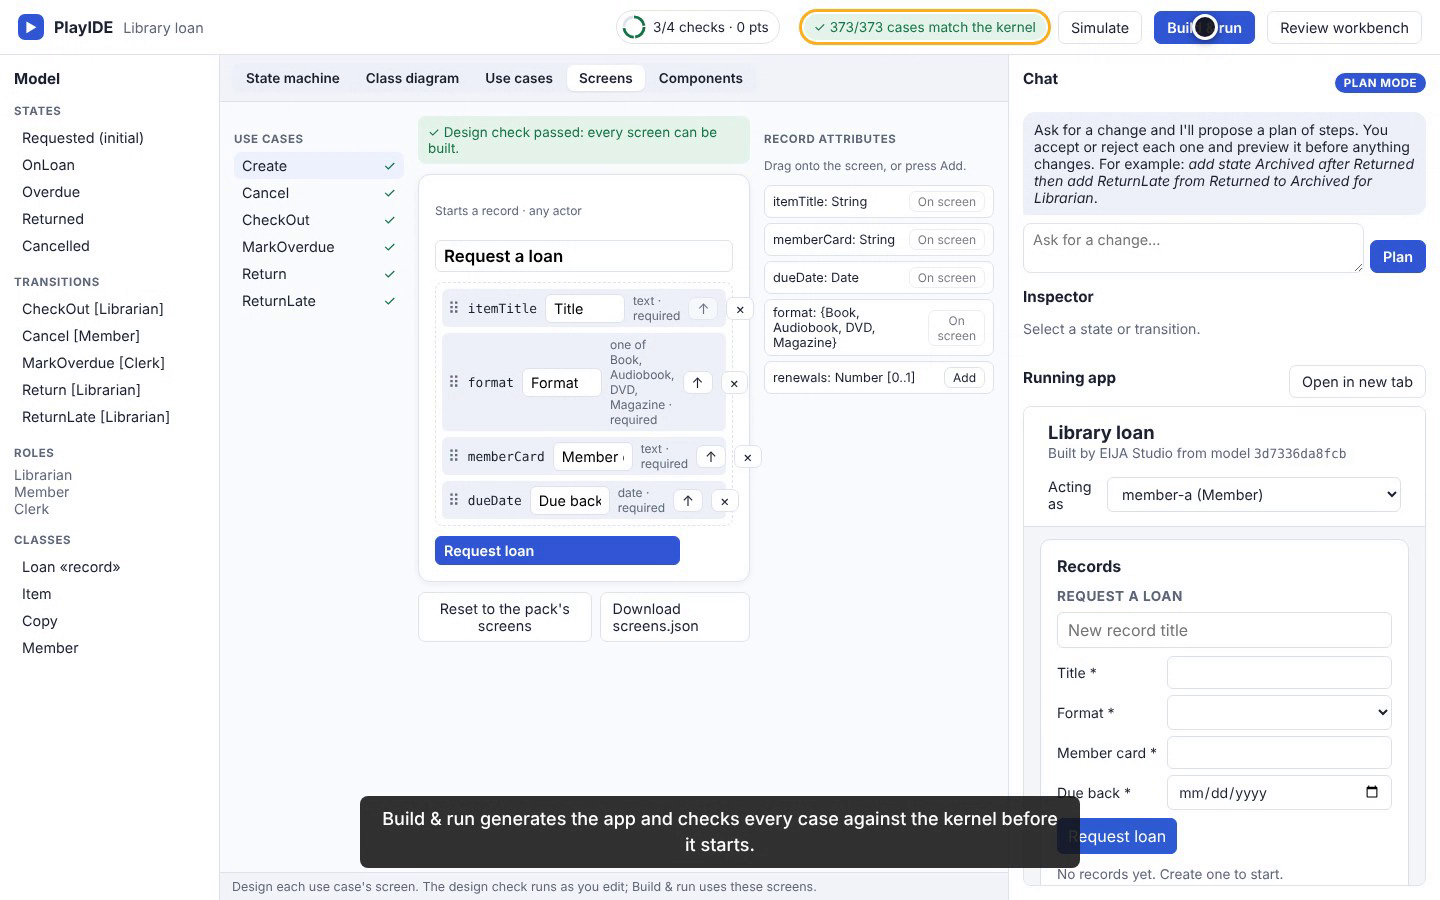
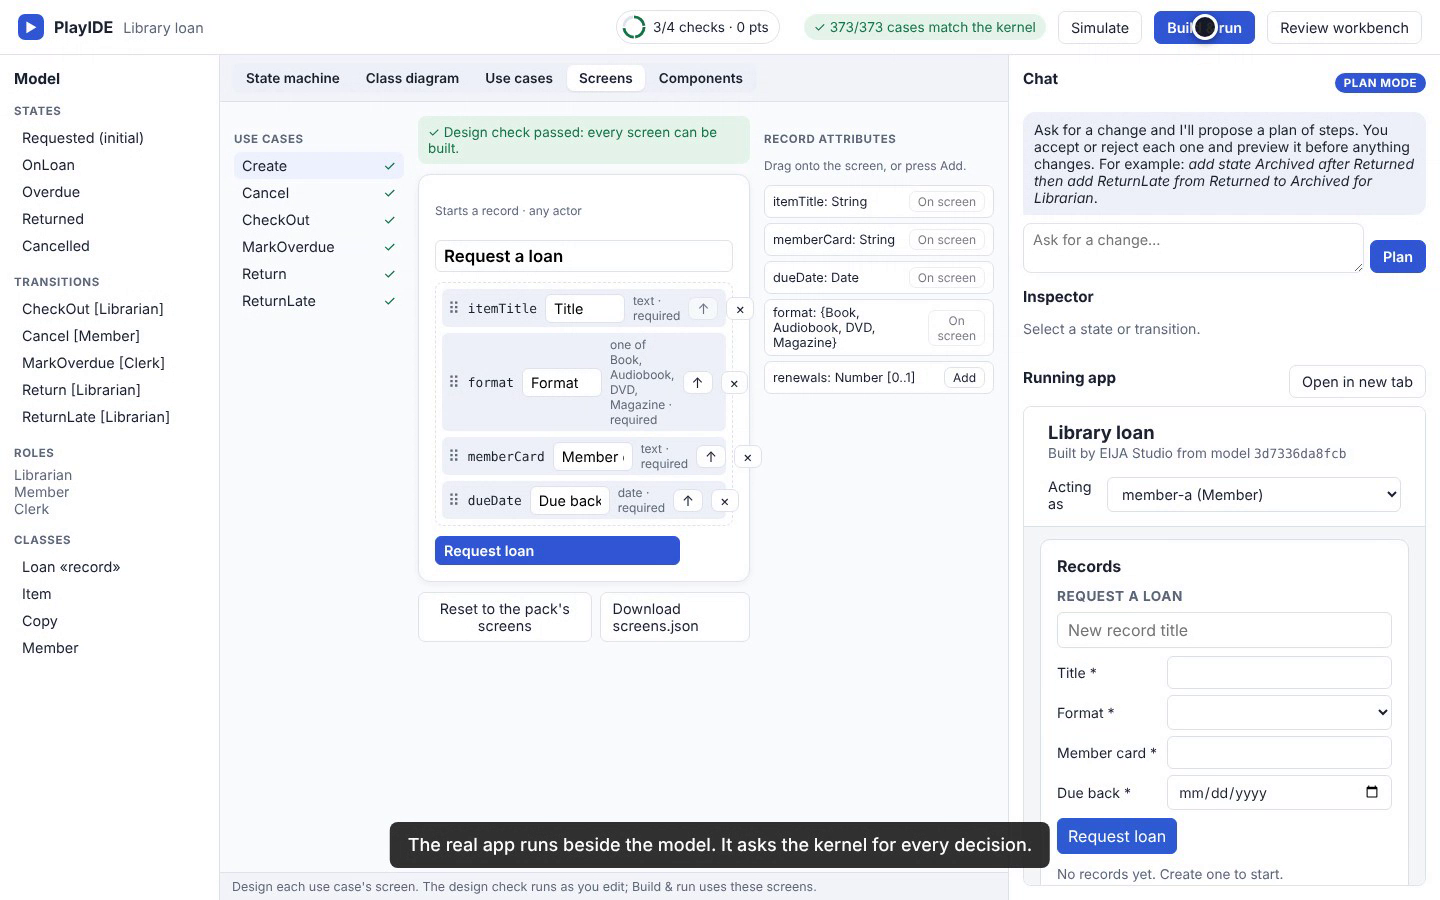
Checks ring: credit only steps actually shown, bind the design check and rewards to the view checked; re-record the tour
Claude-Session: https://claude.ai/code/session_013Bj5uXQQnPh1cheXq12oR7

Changed region(s): [[0.25, 0.8711, 0.75, 0.9644], [0.5625, 0.0, 0.7188, 0.0622]]

diff --git a/src/eija_studio/resources/web/play.js b/src/eija_studio/resources/web/play.js
@@ -11,7 +11,7 @@
   let graph, model, selected = "", sim = null, replayTimer = 0, data = null, classGraph = null, useCaseGraph = null, tab = "states";
   let components = null, componentGraph = null, lastBuild = null;
   let baseModel = null, plan = null; // the server's model, and the chat plan being previewed on top of it (if any)
-  let packInfo = null, points = 0, simKey = null, cards = 0; // the pack's actions and roles; check points; what was simulated
+  let packInfo = null, points = 0, simKey = null, cards = 0, problemsFor = null; // the pack's actions and roles; check points; what was simulated
   const earned = [];
   let screens = null, screensEdited = false, useCase = null, checkTimer = 0, problems = [], useCaseList = [];
   const base = {}; // each cell's own style and label, so overlays can be cleared
@@ -541,6 +541,7 @@
   // check, a conformance pass, a simulation, every AI step looked at), and points come from checking AI steps, never
   // from making changes.
   const viewKey = () => JSON.stringify([about().plan, screensEdited ? screens : null]);
+  const screensKey = () => JSON.stringify([about().plan, screens]); // what the last design check was about
   const KINDS = { state: "a state", transition: "a transition", initial: "the initial state", rename: "a new name", move: "a moved transition" };
 
   async function addStep(transaction) {
@@ -581,7 +582,9 @@
     if (step.why) note.append(el("p", step.why, { class: "muted" }));
     const where = !status ? "" : status.status === "rejected" ? "You rejected this step."
       : status.status === "does_not_apply" ? `It does not apply: ${status.message}`
-      : plan.previewing ? "The diagram shows the plan with this step applied." : "It applies, but the policy refuses the accepted steps together: see the plan's verdict.";
+      : plan.previewing ? "The diagram shows the plan with this step applied."
+      : plan.result.legal ? "Shown on the model, marked in red: the plan removes it."
+      : "It applies, but the policy refuses the accepted steps together: see the plan's verdict.";
     note.append(el("p", where));
     return note;
   }
@@ -590,7 +593,13 @@
     const step = plan.steps[i];
     if (!plan.previewing && plan.result && plan.result.legal) enterPreview();
     if (tab !== "states") showTab("states");
-    const id = cellOf(step.transaction), cell = graph.getDataModel().getCell(id);
+    const id = cellOf(step.transaction);
+    let cell = graph.getDataModel().getCell(id);
+    if (!cell && plan.previewing) { // a removal: the element is gone from the preview, so show it on the model
+      leavePreview();
+      cell = graph.getDataModel().getCell(id);
+      if (cell) restyle(id, { strokeColor: "#a12f2f", dashed: true, strokeWidth: 3 });
+    }
     if (cell) {
       graph.setSelectionCell(cell);
       graph.scrollCellToVisible(cell, true);
@@ -598,17 +607,20 @@
       graph.clearSelection();
       inspect("");
     }
-    $("inspector").prepend(stepNote(i));
-    if (step.author === "ai" && !step.checked) {
+    const note = stepNote(i);
+    if (!cell) note.append(el("p", "Its element is not on the diagram: preview a plan the policy allows to see it.", { class: "muted" }));
+    $("inspector").prepend(note);
+    if (cell && step.author === "ai" && !step.checked) { // credit only for a step actually shown
       step.checked = true;
       earn(1, `Looked at AI step ${i + 1} on the diagram`);
     }
     if (plan.result) renderPlan(plan.result);
   }
 
-  function rewardTrying(kind, n, why) {
-    if (!plan || !plan.previewing || !plan.steps.some((s, i) => s.author === "ai" && plan.accepted[i])) return;
-    const key = kind + viewKey();
+  // `ran` is the view the build or simulation was of: nothing is earned if the view changed while it ran.
+  function rewardTrying(kind, n, why, ran) {
+    if (ran !== viewKey() || !plan || !plan.previewing || !plan.steps.some((s, i) => s.author === "ai" && plan.accepted[i])) return;
+    const key = kind + ran;
     if (plan.rewarded.has(key)) return;
     plan.rewarded.add(key);
     earn(n, why);
@@ -631,7 +643,8 @@
     const simulated = sim && simKey === key ? sim : null;
     return [
       { name: "AI steps checked", ok: seen === ai.length, detail: ai.length ? `${seen} of ${ai.length} AI steps looked at on the diagram` : "No AI plan to check" },
-      { name: "Screens pass the design check", ok: !problems.length, detail: problems.length ? `${problems.length} design problem(s): see Screens` : "Every screen can be built" },
+      { name: "Screens pass the design check", ok: problemsFor === screensKey() && !problems.length,
+        detail: problemsFor !== screensKey() ? "Checking the screens…" : problems.length ? `${problems.length} design problem(s): see Screens` : "Every screen can be built" },
       { name: "Conformance", ok: Boolean(built) && built.conformance.status === "PASS",
         detail: built ? `${built.conformance.status}: ${built.cases} cases checked against the kernel` : "Not built since the last change: press Build & run" },
       { name: "Simulated", ok: Boolean(simulated),
@@ -948,9 +961,13 @@
 
   // With edits, only the problems come back into the page: the designer keeps editing its own objects.
   async function loadScreens(edited) {
+    const planAt = JSON.stringify(about().plan), sent = edited ? JSON.stringify(edited) : null;
     const result = await api("/api/play/screens", { ...about(), screens: edited || null });
+    // A newer model or design replaced the one checked: its own check is on the way, so this answer is not shown.
+    if (JSON.stringify(about().plan) !== planAt || (sent !== null && JSON.stringify(screens) !== sent)) return result;
     if (!edited) screens = result.screens;
     problems = result.problems;
+    problemsFor = screensKey();
     useCaseList = result.use_cases;
     renderHealth();
     return result;
@@ -963,11 +980,14 @@
     components = null;
     renderDesigner();
     clearTimeout(checkTimer);
+    problemsFor = null; // pending until the check of this design answers
+    renderHealth();
     checkTimer = setTimeout(async () => {
       try {
-        problems = (await loadScreens(screens)).problems;
+        await loadScreens(screens);
       } catch (error) {
         problems = [{ code: error.code || "ERROR", use_case: useCase, text: error.message }];
+        problemsFor = screensKey();
       }
       renderProblems();
       renderScreenList();
@@ -1129,7 +1149,7 @@
       const result = await api("/api/play/build", { ...about(), screens: screensEdited ? screens : null });
       const pass = result.conformance.status === "PASS";
       lastBuild = { ...result, key };
-      if (pass) rewardTrying("build", 3, `Built the AI's change and ran its ${result.cases} conformance cases`);
+      if (pass) rewardTrying("build", 3, `Built the AI's change and ran its ${result.cases} conformance cases`, key);
       renderHealth();
       restyleComponents();
       score.className = "score " + (pass ? "ok" : "bad");
@@ -1248,7 +1268,7 @@
       const key = viewKey();
       showSim(await api("/api/play/simulate", { ...about(), seed: 1, steps: 500 }));
       simKey = key;
-      rewardTrying("simulate", 2, "Simulated users on the AI's change");
+      rewardTrying("simulate", 2, "Simulated users on the AI's change", key);
       renderHealth();
     } catch (error) {
       $("sim").hidden = false;

diff --git a/demos/scenarios/playide_tour.py b/demos/scenarios/playide_tour.py
@@ -86,8 +86,6 @@ def _ai_change(scene: Scene) -> None:
     scene.caption("It proposes typed steps. The policy refuses one: who may check a loan out is protected.")
     scene.highlight(f"{card} .plan", duration_ms=1800)
     scene.caption("Check each step on the diagram. Points come from checking the AI, never from making changes.")
-    scene.click(f"{card} .plan-steps > li:nth-child(1) .show")
-    scene.wait(1200)
     scene.click(f"{card} .plan-steps > li:nth-child(2) .show")
     scene.expect_text("#inspector", "Let Member take")
     scene.wait(1200)
@@ -96,6 +94,10 @@ def _ai_change(scene: Scene) -> None:
     scene.expect_text(f"{card} .plan-verdict", "The policy allows the result")
     scene.click(f"{card} .plan-tools .primary")
     scene.expect_text("#plan-banner-text", "Previewing the plan")
+    scene.caption("Now the new state is on the diagram, so check that step too.")
+    scene.click(f"{card} .plan-steps > li:nth-child(1) .show")
+    scene.expect_text("#inspector", "State Archived")
+    scene.wait(1200)
     scene.caption("Then test the AI's change for real: build it, run its conformance cases, and simulate it.")
     scene.click("#build")
     scene.expect_text("#score", "cases match the kernel", timeout_ms=BUILD_TIMEOUT_MS)

diff --git a/docs/demos/2026-10-08-PLAYIDE-TOUR.md b/docs/demos/2026-10-08-PLAYIDE-TOUR.md
@@ -1,6 +1,6 @@
 # PlayIDE tour: design, build, simulate and check an AI's change (8 October 2026)
 
-This is a scripted recording of the real PlayIDE page (`/play`) on the library-loan pack. Every click is a real browser action against a real `eija serve`, and every step asserts text the page actually rendered. `python -m demos run playide_tour --dry-run` repeats the same clicks and assertions without video. The take is **PASS**, with no act skipped. It runs 2 minutes 37 seconds.
+This is a scripted recording of the real PlayIDE page (`/play`) on the library-loan pack. Every click is a real browser action against a real `eija serve`, and every step asserts text the page actually rendered. `python -m demos run playide_tour --dry-run` repeats the same clicks and assertions without video. The take is **PASS**, with no act skipped. It runs 2 minutes 38 seconds.
 
 The chat's proposer is the offline phrase reader (`offline-plan-fixture-v1`), not a live model, and the video says so.
 

diff --git a/CHANGELOG.md b/CHANGELOG.md
@@ -4,7 +4,7 @@
 
 ### 8 October 2026: PlayIDE tour recording
 
-- New scripted demo `playide_tour`, recorded (PASS, 2:37): diagrams, screens, Build & run, components, Simulate, drawing with the palette, and checking an offline AI proposal. See [the write-up](docs/demos/2026-10-08-PLAYIDE-TOUR.md).
+- New scripted demo `playide_tour`, recorded (PASS, 2:38): diagrams, screens, Build & run, components, Simulate, drawing with the palette, and checking an offline AI proposal. See [the write-up](docs/demos/2026-10-08-PLAYIDE-TOUR.md).
 
 ### 8 October 2026: drawing and the checks ring
 
